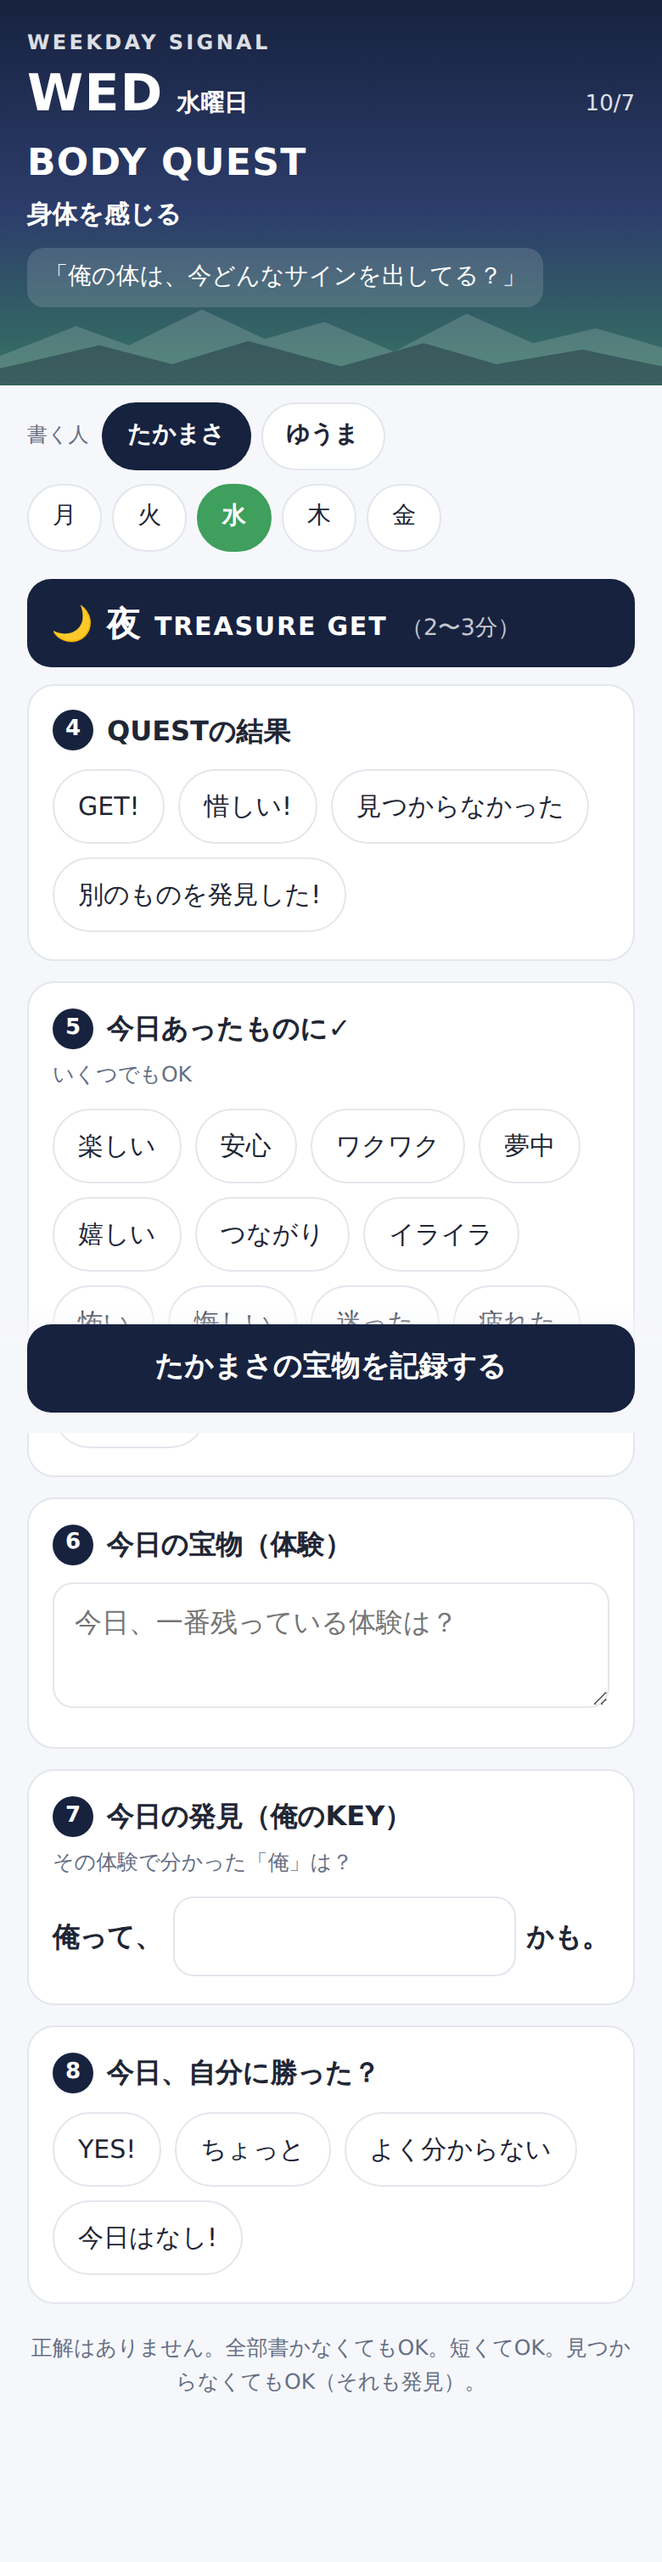
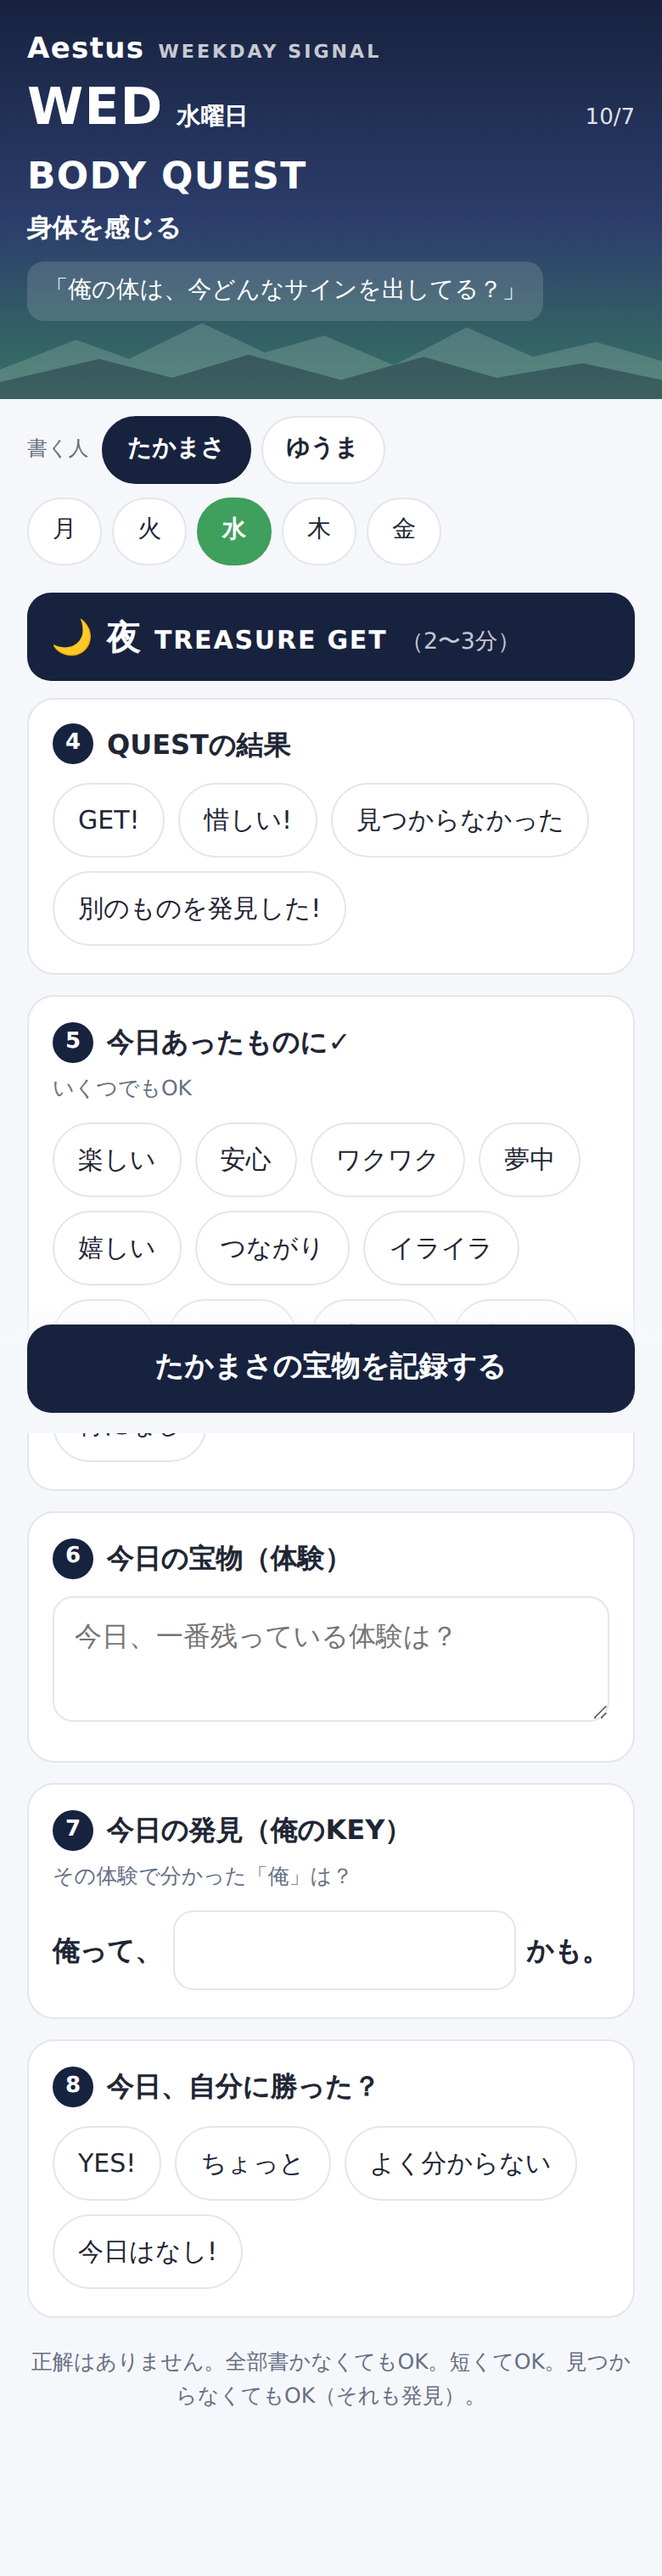
アプリ名を Aestus にする
- 入力ページ・親の画面のタイトルと見出し、ボットの友だち追加の挨拶、コードの見出し
- ワークの名前「WEEKDAY SIGNAL」は残す（入力ページでは Aestus の横に小さく出す）
- 手順書の名前の例（公式アカウント・LIFF・スプレッドシート・Apps Script）を Aestus に
- リポジトリ名は入力ページの URL に入っているので変えない

Claude-Session: https://claude.ai/code/session_01MdnRJeeHdqpjRrkzFFFRgS

diff --git a/web/app.js b/web/app.js
@@ -1,4 +1,4 @@
-// WEEKDAY SIGNAL 入力ページ（LINE の中で開く LIFF アプリ）
+// Aestus 入力ページ（LINE の中で開く LIFF アプリ）
 //
 //   ?slot=morning | night   朝のチェックか夜のチェックか（無ければ時刻で決める）
 //   ?mock=1                 LINE も Apps Script も使わない見本モード（見た目の確認用）
@@ -54,7 +54,7 @@
       const n = params.has("kids") ? Number(params.get("kids")) : 2;
       return { ok: true, questions, children: all.slice(0, n), lineName: "見本" };
     }
-    const key = "ws-mock-" + body.childId + "-" + body.date;
+    const key = "aestus-mock-" + body.childId + "-" + body.date;
     let row = null;
     try { row = JSON.parse(localStorage.getItem(key) || "null"); } catch (_) {}
     if (body.type === "get") return { ok: true, row };
@@ -90,7 +90,7 @@
       ? `<div class="who" role="group" aria-label="書く人">${kids.map((c) => `<button type="button" data-child="${esc(c.id)}" aria-pressed="${c.id === state.child.id}">${esc(c.name)}</button>`).join("")}</div>`
       : "";
     return `<header class="hero">
-      <div class="brand">WEEKDAY SIGNAL</div>
+      <div class="brand"><b>Aestus</b><span>WEEKDAY SIGNAL</span></div>
       <div class="dayline"><span class="en">${DAY_EN[state.day]}</span><span class="ja">${DAY_JA[state.day]}曜日</span><span class="date">${mdLabel(state.date)}</span></div>
       <h1>${esc(d.name)}</h1>
       <p class="theme">${esc(d.theme)}</p>
@@ -160,7 +160,7 @@
     app.querySelectorAll(".daypick button").forEach((b) => b.addEventListener("click", () => { state.day = b.dataset.day; render(); }));
     app.querySelectorAll(".who button").forEach((b) => b.addEventListener("click", () => {
       state.child = kids.find((c) => c.id === b.dataset.child) || state.child;
-      remember.set("ws-child", state.child.id);
+      remember.set("aestus-child", state.child.id);
       render();
     }));
     app.querySelector("#f").addEventListener("submit", submit);
@@ -219,7 +219,7 @@
       const again = app.querySelector(".again");
       if (again) again.addEventListener("click", () => {
         state.child = kids[(kids.indexOf(state.child) + 1) % kids.length];
-        remember.set("ws-child", state.child.id);
+        remember.set("aestus-child", state.child.id);
         render();
       });
       else if (line.isInClient()) setTimeout(() => line.closeWindow(), 1500);
@@ -247,7 +247,7 @@
       const now = new Date();
       const today = wdKey(now);
       const hour = jst(now).getUTCHours();
-      const saved = remember.get("ws-child");
+      const saved = remember.get("aestus-child");
       state = {
         slot: params.get("slot") === "night" || (params.get("slot") !== "morning" && hour >= 15) ? "night" : "morning",
         day: DAYS.includes(params.get("day")) ? params.get("day") : DAYS.includes(today) ? today : "fri",

diff --git a/web/style.css b/web/style.css
@@ -1,4 +1,4 @@
-/* 紙のシート（WEEKDAY SIGNAL）の見た目を引き継ぐ：紺の空と山の帯、曜日の色、朝・夜の帯、丸数字。
+/* Aestus の入力ページ。紙のシート（ワーク「WEEKDAY SIGNAL」）の見た目を引き継ぐ：紺の空と山の帯、曜日の色、朝・夜の帯、丸数字。
    指で押しやすい大きさ（44px 以上）を優先 */
 :root {
   --ink: #1f2635; --muted: #667085; --line: #e3e6ec; --bg: #f6f7fb; --card: #ffffff;
@@ -20,7 +20,9 @@ main { max-width: 560px; margin: 0 auto; padding: 0 0 calc(96px + env(safe-area-
 /* 上の帯：紺の空 → 曜日の色の朝焼け、山並み */
 .hero { position: relative; overflow: hidden; color: #fff; padding: 16px 16px 46px;
   background: linear-gradient(180deg, var(--navy) 0%, var(--navy-2) 55%, var(--accent) 135%); }
-.hero .brand { font-size: 12px; font-weight: 800; letter-spacing: .14em; opacity: .85; }
+.hero .brand { display: flex; align-items: baseline; gap: 8px; }
+.hero .brand b { font-size: 17px; font-weight: 800; letter-spacing: .04em; }
+.hero .brand span { font-size: 11px; font-weight: 700; letter-spacing: .14em; opacity: .75; }
 .hero .dayline { display: flex; align-items: baseline; gap: 8px; margin-top: 6px; }
 .hero .dayline .en { font-size: 30px; font-weight: 900; letter-spacing: .02em; line-height: 1; }
 .hero .dayline .ja { font-size: 14px; font-weight: 700; }

diff --git a/gas-parent/Index.html b/gas-parent/Index.html
@@ -3,7 +3,7 @@
 <head>
 <meta charset="utf-8">
 <base target="_top">
-<title>WEEKDAY SIGNAL 親の画面</title>
+<title>Aestus 親の画面</title>
 <style>
 /* 上から「いま何が要るか」順：ギフト → 今月の数字 → スタンプ → 調子の推移 → よく出た言葉 → 毎日の記録 */
 :root {
@@ -228,7 +228,7 @@ button.primary { background: var(--accent); color: #fff; border-color: var(--acc
   let TAB = "records", A = null;
   function shell(inner) {
     const viewer = (D && D.viewer) || (A && A.viewer) || "";
-    app.innerHTML = `<header><h1>WEEKDAY SIGNAL</h1>
+    app.innerHTML = `<header><h1>Aestus</h1>
         <nav class="tabs" role="tablist">${TABS.map(([k, t]) => `<button type="button" role="tab" data-tab="${k}" aria-selected="${k === TAB}">${t}</button>`).join("")}</nav>
         <span class="who">${esc(viewer)} で表示中</span></header>${inner}`;
     app.querySelectorAll("[data-tab]").forEach((b) => { b.onclick = () => openTab(b.dataset.tab); });

diff --git a/preview/parent.html b/preview/parent.html
@@ -3,7 +3,7 @@
 <head>
 <meta charset="utf-8">
 <base target="_top">
-<title>WEEKDAY SIGNAL 親の画面</title>
+<title>Aestus 親の画面</title>
 <style>
 /* 上から「いま何が要るか」順：ギフト → 今月の数字 → スタンプ → 調子の推移 → よく出た言葉 → 毎日の記録 */
 :root {
@@ -228,7 +228,7 @@ button.primary { background: var(--accent); color: #fff; border-color: var(--acc
   let TAB = "records", A = null;
   function shell(inner) {
     const viewer = (D && D.viewer) || (A && A.viewer) || "";
-    app.innerHTML = `<header><h1>WEEKDAY SIGNAL</h1>
+    app.innerHTML = `<header><h1>Aestus</h1>
         <nav class="tabs" role="tablist">${TABS.map(([k, t]) => `<button type="button" role="tab" data-tab="${k}" aria-selected="${k === TAB}">${t}</button>`).join("")}</nav>
         <span class="who">${esc(viewer)} で表示中</span></header>${inner}`;
     app.querySelectorAll("[data-tab]").forEach((b) => { b.onclick = () => openTab(b.dataset.tab); });

diff --git a/web/index.html b/web/index.html
@@ -3,7 +3,7 @@
 <head>
 <meta charset="utf-8">
 <meta name="viewport" content="width=device-width,initial-scale=1,viewport-fit=cover">
-<title>WEEKDAY SIGNAL</title>
+<title>Aestus</title>
 <link rel="stylesheet" href="style.css">
 </head>
 <body>

diff --git a/README.md b/README.md
@@ -1,6 +1,7 @@
-# WEEKDAY SIGNAL
+# Aestus
 
 平日の朝・夜に2〜3分ずつ書くワーク「WEEKDAY SIGNAL」を、LINE から入力してスプレッドシートに溜める仕組み。
+アプリ名は **Aestus**（ワークの名前は WEEKDAY SIGNAL のまま）。リポジトリ名 `weekday-signal` は、入力ページの URL に入っているので変えていない
 
 - 入力：LINE のトーク画面下のメニュー「朝」「夜」→ LINE の中で開く入力ページ（LIFF）
 - 記録：Google スプレッドシート（1日1行）。Excel でも落とせる
